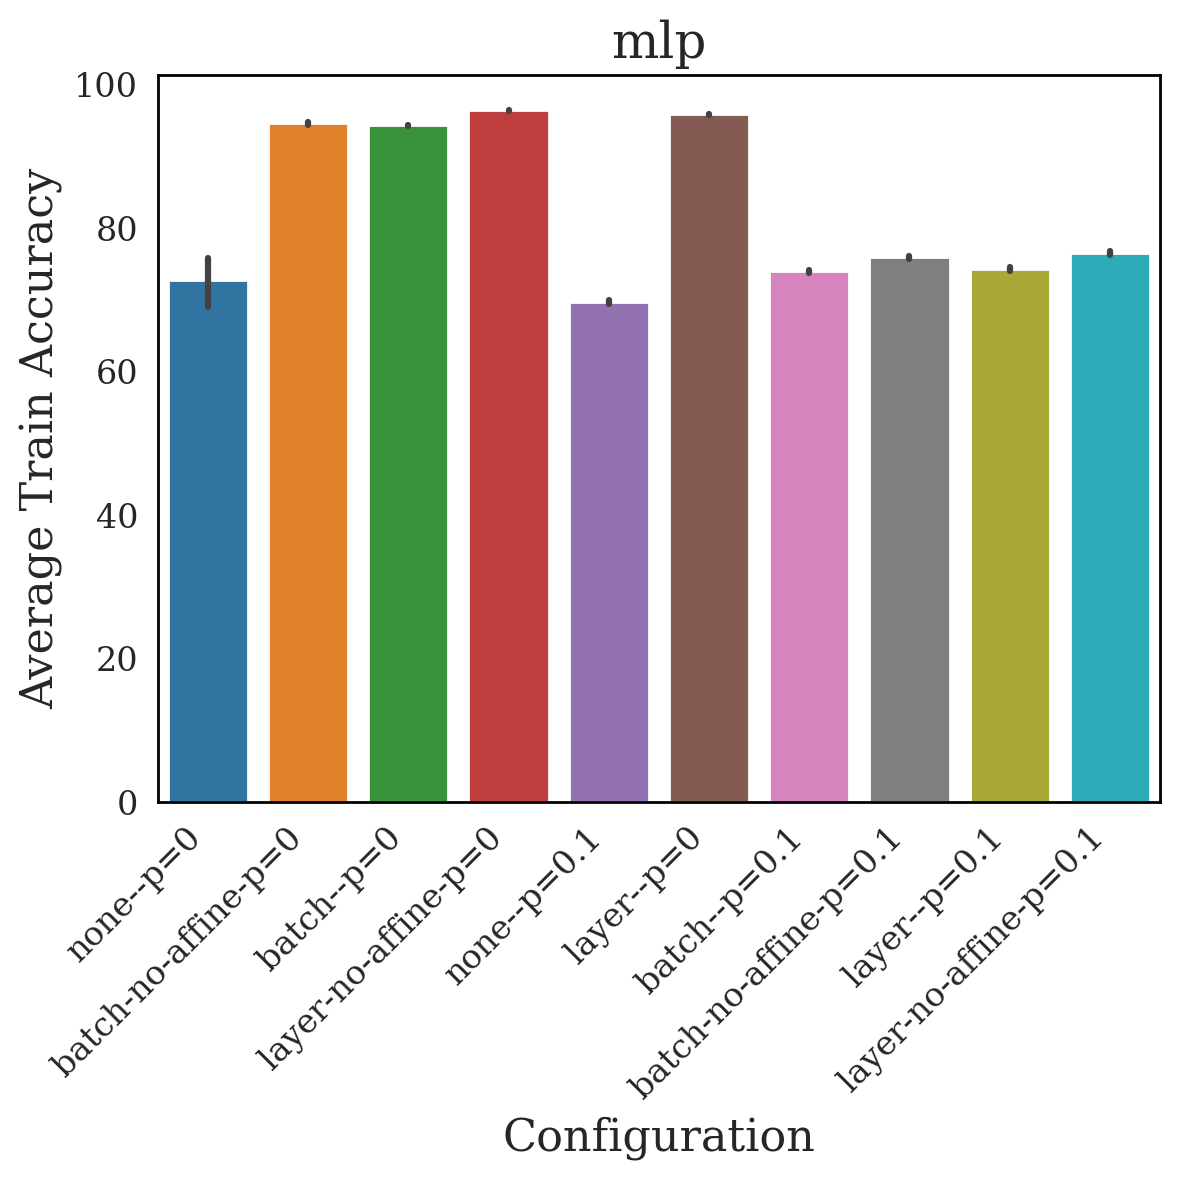
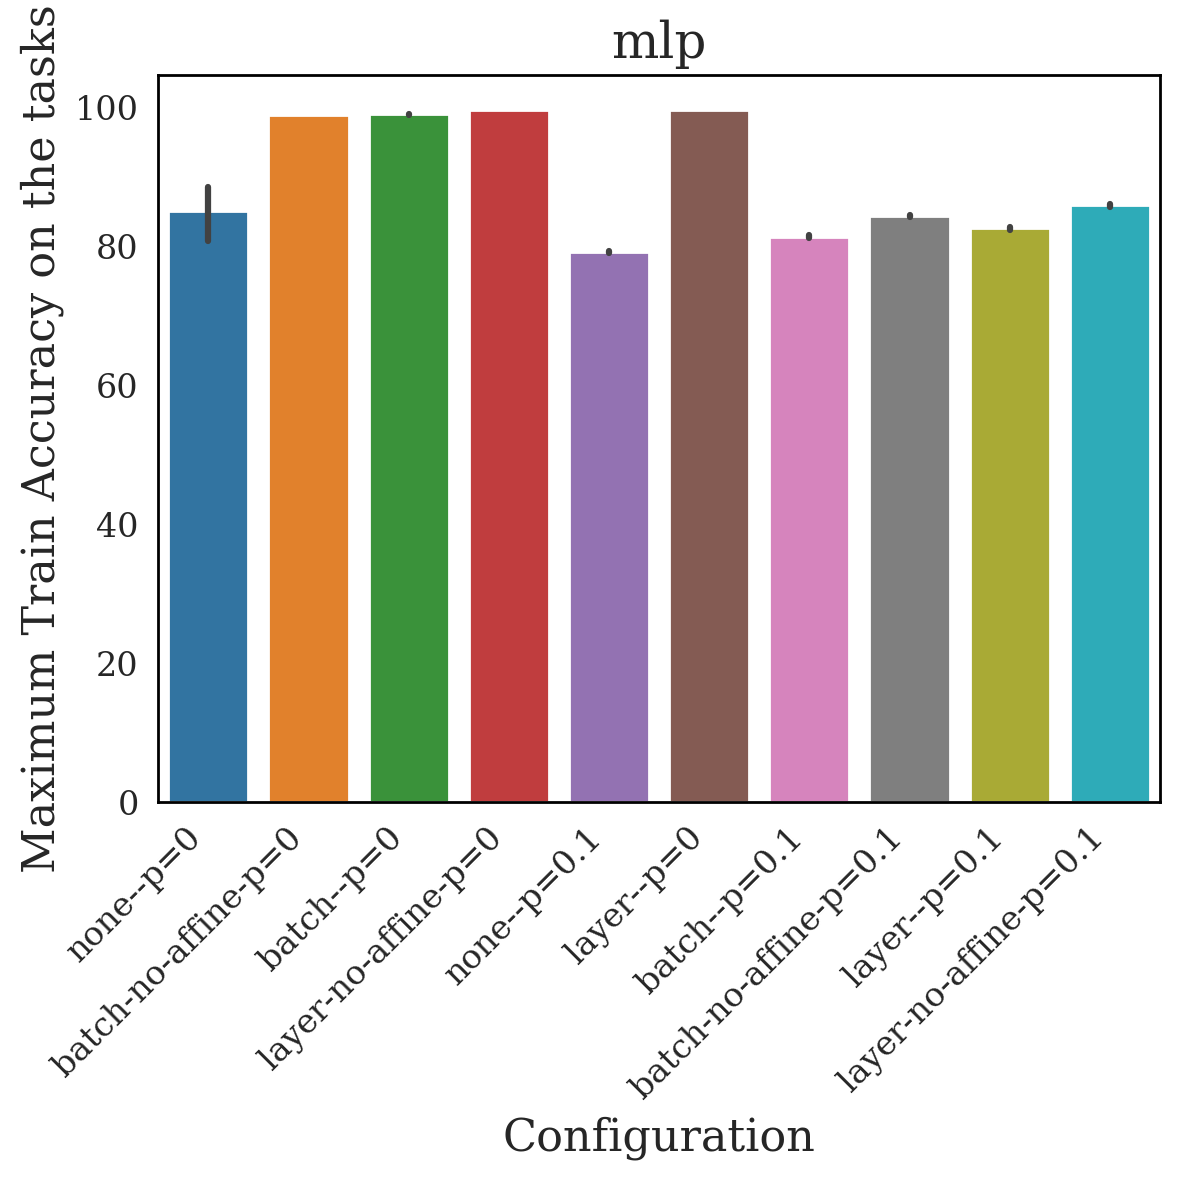
Updates from Overleaf

diff --git a/paper/main.tex b/paper/main.tex
@@ -31,6 +31,10 @@
 \newcommand{\giulia}[1]{{\color{ForestGreen}\textbf{Giulia:} #1}}
 %\newcommand{\giulia}[1]{}
 
+\usepackage[textsize=tiny]{todonotes}
+% \usepackage{colortbl}
+
+\newcommand{\mf}[1]{\todo[color=orange!30,size=\tiny]{MF: #1}}
 
 %%%% Theorem environments
 \newtheorem{definition}{Definition}[section]
@@ -38,6 +42,7 @@
 \newtheorem{proposition}{Proposition}[section]
 \newtheorem{corollary}{Corollary}[section]
 \newtheorem{remark}{Remark}[section]
+
 
 \title{Barriers for Learning in an Evolving World: \\a Mathematical Understanding of Loss of Plasticity}
 
@@ -74,7 +79,7 @@
 
 \section{Introduction}
 
-The extraordinary success of back-propagation in training deep neural networks often relies on two implicit, yet critical, assumptions:
+The extraordinary success of back-propagation in training deep neural networks often relies on two implicit, yet critical, assumptions: \mf{Or even maybe removing the bullet format and write plainly. Two indentation at the bending of intro and in the first page of paper may not look very good.}
 \begin{enumerate}
     \item \textbf{Stationarity.} The data distribution encountered during training is assumed to be identical, or very similar, to the distribution faced during deployment. Consequently, adaptation after the initial training phase is often minimal or absent.
     \item \textbf{One-shot randomness.} Diversity and the potential for exploration are primarily introduced through a single random initialization of the network's parameters. Subsequent training involves specialization, but the initial source of variability is gradually overwritten or ``forgotten'' by the optimization process.
@@ -190,9 +195,12 @@ This mechanism provides a clear pathway to plasticity loss where parts of the ne
 
 \begin{figure}[h!]
     \centering
-    \includegraphics[width=0.45\linewidth]{paper/images/dead_frac_mlp.png}
-    \includegraphics[width=0.45\linewidth]{paper/images/dead_frac_cnn.png}
-    \caption{(Placeholder figure, not final) No normalization and no dropout. The Accuracy is plotted as a rolling average, with window 20. +resnet and ViT will be added.}
+    \includegraphics[width=0.4\linewidth]{paper/images/dead_frac_mlp.png}
+    \includegraphics[width=0.4\linewidth]{paper/images/dead_frac_cnn.png}
+    \includegraphics[width=0.4\linewidth]{paper/images/dead_frac_resnet.png}
+    \includegraphics[width=0.4\linewidth]{paper/images/sat_frac_vit.png}
+    
+    \caption{(Placeholder figure, not final) No normalization and no dropout. The Accuracy is plotted as a rolling average, with window 20. For ViT we use layernorm.}
     \label{fig:DeadReLUs-LoP}
 \end{figure}
 
@@ -287,16 +295,18 @@ The affine subspace identified in Proposition~\ref{prop:cloned} acts as a stable
 
 \begin{figure}[h!]
     \centering
-    \includegraphics[width=0.33\linewidth]{paper/images/mlp_dup_frac.png}\includegraphics[width=0.33\linewidth]{paper/images/cnn_dup_frac.png}
-    \includegraphics[width=0.33\linewidth]{paper/images/resnet_dup_frac.png}
-    \caption{(Placeholder figure, not final) No normalization and no dropout. The colours correspond to training steps (binned for convenienc). This figure shows the emergence of duplicate units during training, and their relation with the training performance.}
+    \includegraphics[width=0.24\linewidth]{paper/images/mlp_dup_frac.png}\includegraphics[width=0.24\linewidth]{paper/images/cnn_dup_frac.png}
+    \includegraphics[width=0.24\linewidth]{paper/images/resnet_dup_frac.png}
+    \includegraphics[width=0.24\linewidth]{paper/images/vit_dup_frac.png}
+    \caption{(Placeholder figure, not final) No normalization (except layer for vit) and no dropout. The colours correspond to training steps (binned for convenienc). This figure shows the emergence of duplicate units during training, and their relation with the training performance.}
     \label{fig:dupfrac-LoP}
 \end{figure}
 \begin{figure}[h!]
     \centering
-    \includegraphics[width=0.33\linewidth]{paper/images/mlp_stable_rank.png}\includegraphics[width=0.33\linewidth]{paper/images/cnn_stable_rank.png}
-    \includegraphics[width=0.33\linewidth]{paper/images/resnet_stable_rank.png}
-    \caption{(Placeholder figure, not final) No normalization and no dropout. The colours correspond to training steps (binned for convenienc). This figure shows the evolution of the features stable rank during training, and their relation with the training performance.}
+    \includegraphics[width=0.24\linewidth]{paper/images/mlp_stable_rank.png}\includegraphics[width=0.24\linewidth]{paper/images/cnn_stable_rank.png}
+    \includegraphics[width=0.24\linewidth]{paper/images/resnet_stable_rank.png}
+    \includegraphics[width=0.24\linewidth]{paper/images/vit_stable_rank.png}
+    \caption{(Placeholder figure, not final) No normalization (except layer for vit) and no dropout. The colours correspond to training steps (binned for convenienc). This figure shows the evolution of the features stable rank during training, and their relation with the training performance.}
     \label{fig:dupfrac-LoP}
 \end{figure}
 \section{Mitigating and Recovering Plasticity}
@@ -318,6 +328,35 @@ Let $f:\R\to\R$ be non-linear activation that is not a bounded degree polynomial
 The proof (Appendix~\ref{app:proofs}) leverages the Hermite polynomial expansion of the activation function $f$ \cite{erdelyi1953higher} and Mehler's formula for the expectation of products of Hermite polynomials of correlated Gaussian variables \cite{mehler1866ueber, erdelyi1953higher}. Since a non-polynomial function has infinitely many non-zero Hermite coefficients, the resulting covariance matrix becomes a sum of positive semidefinite matrices (Hadamard powers of $\Sigma$), which generally results in a positive definite (full rank) matrix unless the underlying Gaussian variables $z_i$ lack diversity.
 
 
+While Proposition~\ref{prop:rank} establishes that non-linear activation functions are key to recovering rank from rank-deficient pre-activations under Gaussian input assumptions, the *effective degree* of this nonlinearity in practice is critically dependent on the statistical properties (e.g., mean, variance, and range) of the actual inputs the activation function receives. If pre-activations fall into regions where the function behaves linearly (e.g., Tanh for small inputs) or is saturated (e.g., Tanh for very large inputs, or ReLU for all-negative inputs), its ability to expand representational rank is severely diminished. This occurs even if the activation function is globally non-linear. The following empirical simulations illustrate this critical dependency and demonstrate how controlling input statistics, for instance via normalization, can ensure activations operate in their beneficial non-linear regimes. For these simulations, we consider pre-activations $z \in \R^{d}$ that are synthetically generated to be low-rank; specifically, $z$ has an effective rank of $K_{\text{rank}}=5$ within a $d_{\text{full}}=20$ dimensional space.
+
+\begin{figure}[ht!]
+    \centering
+    \includegraphics[width=0.7\linewidth]{figures/theory_tanh_az_rank.pdf}
+    \caption{Impact of input scaling on the effective rank of post-activations for $h = \tanh(az)$. Pre-activations $z$ are rank-deficient (initial effective rank 5 in $d_{\text{full}}=20$ dimensions). \textbf{Left:} Normalized eigenvalue spectra of the covariance matrix $\mathrm{Cov}(h)$. \textbf{Right:} Effective rank of $\mathrm{Cov}(h)$ as a function of the scaling factor $a$. For very small $a$, $\tanh(az) \approx az$, causing the activation to act linearly and leading to minimal rank increase. As $a$ increases, the non-linearity becomes more pronounced, significantly improving rank recovery. For very large $a$, $\tanh(az)$ approaches $\mathrm{sign}(z)$, a different non-linear function that can also yield high rank.}
+    \label{fig:theory_tanh_az_rank}
+\end{figure}
+
+\begin{figure}[ht!]
+    \centering
+    \includegraphics[width=0.7\linewidth]{figures/theory_relu_zb_rank.pdf}
+    \caption{Impact of input shifting on the effective rank of post-activations for $h = \mathrm{ReLU}(z+b)$. Pre-activations $z$ are rank-deficient (initial effective rank 5 in $d_{\text{full}}=20$ dimensions). \textbf{Left:} Normalized eigenvalue spectra of $\mathrm{Cov}(h)$. \textbf{Right:} Effective rank of $\mathrm{Cov}(h)$ versus the shift $b$. If $b$ is large and positive (such that $z+b > 0$ for most inputs), $\mathrm{ReLU}(z+b) \approx z+b$, an affine function, which limits rank recovery. Conversely, if $b$ is large and negative, most inputs result in zero activation, causing rank collapse. An optimal range for $b$ (around zero for zero-mean $z$) allows ReLU to operate effectively as a non-linear function, maximizing rank expansion from the low-rank input.}
+    \label{fig:theory_relu_zb_rank}
+\end{figure}
+
+Figures~\ref{fig:theory_tanh_az_rank} and \ref{fig:theory_relu_zb_rank} clearly illustrate that without appropriate scaling or centering, pre-activations can drive common activation functions like Tanh and ReLU into operating regimes where their effective non-linearity is weak. In such regimes, their capacity to recover or expand the rank of representations is compromised, potentially exacerbating issues like loss of plasticity if hidden representations become increasingly rank-deficient over time. This underscores the critical importance of controlling pre-activation statistics throughout a network and during training. Techniques like Batch Normalization are designed precisely for this purpose: by standardizing input statistics, they can guide pre-activations into the more effective, non-linear operational zones of activation functions. Figure~\ref{fig:theory_joint_norm_activation_rank} empirically demonstrates this synergistic effect.
+
+\begin{figure}[ht!]
+    \centering
+    \includegraphics[width=0.9\linewidth]{figures/theory_joint_norm_activation_rank.pdf} 
+    \caption{Synergistic effect of Batch Normalization (BN) and activation functions (ReLU and Tanh) on rank recovery from perturbed inputs. Initial pre-activations (effective rank 5 in $d_{\text{full}}=20$ dimensions) are first perturbed to $z_{\text{pert}}$ via per-feature random scaling and shifting, potentially pushing them into suboptimal operating regimes for the activations. The plots display normalized eigenvalue spectra for the covariance of: (i) the perturbed pre-activations $z_{\text{pert}}$ (blue, labeled 'Pre-Act'), (ii) the result of applying the activation function directly to $z_{\text{pert}}$ (orange, 'Direct'), and (iii) the result of applying the activation function after $z_{\text{pert}}$ has been normalized by BN (green, 'BN+Act'). Applying BN before the activation function (green lines) consistently restores or significantly enhances the effective rank of the representations. This is particularly evident when direct application of the activation to the perturbed inputs (orange lines) leads to rank collapse or poor recovery, highlighting BN's role in maintaining effective non-linearity.}
+    \label{fig:theory_joint_norm_activation_rank}
+\end{figure}
+
+The insights from Proposition~\ref{prop:rank}, corroborated by these empirical illustrations (Figures~\ref{fig:theory_tanh_az_rank}--\ref{fig:theory_joint_norm_activation_rank}), provide a strong basis for understanding the utility of certain architectural choices and training techniques, which we discuss next.
+
+
+
 \giulia{Here we should discuss the Proposition and its implications. }
 
 \paragraph{Design implications.}
@@ -330,17 +369,20 @@ These techniques, while often motivated by improving optimization speed or stati
 
 \begin{figure}[h!]
     \centering
-    \includegraphics[width=0.33\linewidth]{paper/images/mlp_rankandnorm.png}\includegraphics[width=0.33\linewidth]{paper/images/mlp_nonGaussnorm.png}
+    \includegraphics[width=0.24\linewidth]{paper/images/mlp_rankandnorm.png}\includegraphics[width=0.24\linewidth]{paper/images/mlp_nonGaussnorm.png}
+    \includegraphics[width=0.24\linewidth]{paper/images/cnn_rankandnorm.png}\includegraphics[width=0.24\linewidth]{paper/images/cnn_nonGaussnorm.png}
+
+    \includegraphics[width=0.24\linewidth]{paper/images/resnet_rankandnorm.png}\includegraphics[width=0.24\linewidth]{paper/images/resnet_nonGaussnorm.png}
+\includegraphics[width=0.24\linewidth]{paper/images/vit_rankandnorm.png}\includegraphics[width=0.24\linewidth]{paper/images/vit_nonGaussnorm.png}
     
-    \caption{(Placeholder figure, not final) Effect of normalization on Effective Rank and Gaussianity. Dropout is 0.}
+    \caption{(Placeholder figure, not final) Effect of normalization on Effective Rank and Gaussianity. Dropout is 0. (Warning: The colours in different architectures do not have the same meaning)}
     \label{fig:norm-rank-nG}
 \end{figure}
 
 \begin{figure}[h!]
     \centering
-    \includegraphics[width=0.33\linewidth]{paper/images/mlp_rankanddropout.png}
-    
-    \caption{(Placeholder figure, not final) Effect of dropout on Effective Rank. No normalization applied.}
+    \includegraphics[width=0.24\linewidth]{paper/images/mlp_rankanddropout.png}    \includegraphics[width=0.24\linewidth]{paper/images/cnn_rankanddropout.png}\includegraphics[width=0.24\linewidth]{paper/images/resnet_rankanddropout.png}\includegraphics[width=0.24\linewidth]{paper/images/vit_rankanddropout.png}
+    \caption{(Placeholder figure, not final) Effect of dropout on Effective Rank. No normalization applied, except layer on vit.}
     \label{fig:dropout-rank}
 \end{figure}
 
@@ -372,8 +414,11 @@ This corollary explains why techniques involving noise injection or periodic re-
 \begin{figure}[h!]
     \centering
     \includegraphics[width=0.33\linewidth]{paper/images/mlp_config_finalperf.png}
+    \includegraphics[width=0.33\linewidth]{paper/images/cnn_config_finalperf.png}
+    \includegraphics[width=0.33\linewidth]{paper/images/resnet_config_finalperf.png}
+\includegraphics[width=0.33\linewidth]{paper/images/vit_config_finalperf.png}
     
-    \caption{(Placeholder figure, not final - this should probably become a table) Summary of final performance dependent on normalization and dropout. The y axis is the train accuracy averaged over time for each run, the standard deviation is over all runs with the same configuration.}
+    \caption{(Placeholder figure, not final - can become a table) Summary of final performance dependent on normalization and dropout. The y axis is the maximum train accuracy reached on each task, averaged over tasks. The standard deviation is over all runs with the same configuration.}
     \label{fig:mlp-config-finalperf}
 \end{figure}
 
@@ -428,32 +473,7 @@ However, potential negative impacts must also be considered. Enabling AI systems
 \bibliography{refs} % Assuming the bib file is named refs.bib
 
 \appendix
-\section{Validation of rank recovery}
-The efficacy of a non-linear activation function, such as $\tanh(x)$, in expanding the dimensionality or rank of feature representations is highly dependent on its operating regime, which is dictated by the scale of its inputs. While it is established that suitable non-linearities can recover the full rank of representations from initially rank-deficient Gaussian features (as discussed in Proposition X.X of our main text), this capability is nuanced by practical considerations of input scaling.
 
-As illustrated in Figure~\ref{fig:eigenvalue_impact_activation} and Figure~\ref{fig:eigenvalue_impact_scaling}, the behavior of the $\tanh(x)$ activation changes drastically with input magnitude.
-When pre-activations are very small (e.g., scaled by $s=0.05$), $\tanh(x)$ approximates a linear function ($f(x) \approx x$). Consequently, the output covariance spectrum closely mirrors the input's rank-deficient structure, showing minimal increase in either SVD threshold rank or effective rank. This highlights that merely employing a differentiable non-linearity is insufficient if its inputs do not engage its non-linear characteristics.
-Conversely, if pre-activations are appropriately scaled (e.g., $s=1.5$), pushing inputs into the genuinely non-linear region of $\tanh(x)$ where its curvature is significant, substantial rank recovery is observed. The output covariance spectrum shows all $d_{full}$ eigenvalues becoming substantial, and both SVD and effective ranks approach the full dimensionality $d_{full}$. However, excessive input scaling (e.g., $s=10.0$) leading to saturation of $\tanh(x)$ (where $f(x) \approx \pm 1$) can again limit the extent of rank recovery. While the SVD rank might become full, the distribution of eigenvalues (and thus the effective rank) may not be as rich as with medium scaling, as most information is squashed to the saturated values.
-
-This underscores the importance of input normalization. When inputs are first standardized to have approximately zero mean and unit variance for each feature (simulating the effect of a Batch Normalization layer) before applying $\tanh(x)$, the activation consistently operates in an effective non-linear range. As seen in Figure~\ref{fig:eigenvalue_impact_scaling} ("Output, Input: Normalized"), this also leads to robust rank recovery. Therefore, the combination of input normalization and a non-linear activation is crucial for ensuring the activation remains `effective,' fully leveraging its capacity to diversify features and recover representational rank. This synergy is vital for learning complex functions and maintaining model plasticity in deeper networks, preventing premature convergence to lower-dimensional subspaces.
-
-
-\begin{figure}[htbp]
-    \centering
-    % Actual command to include the figure generated by the Python script:
-    \includegraphics[width=0.95\textwidth]{paper/images/theory.png}
-    \caption{}
-    \label{fig:eigenvalue_impact_activation}
-\end{figure}
-
-
-\begin{figure}[htbp]
-    \centering
-    % Actual command to include the figure generated by the Python script:
-    \includegraphics[width=0.95\textwidth]{paper/images/theory2.png}
-    \caption{}
-    \label{fig:eigenvalue_impact_scaling}
-\end{figure}
 
 
 \section{Proofs}
